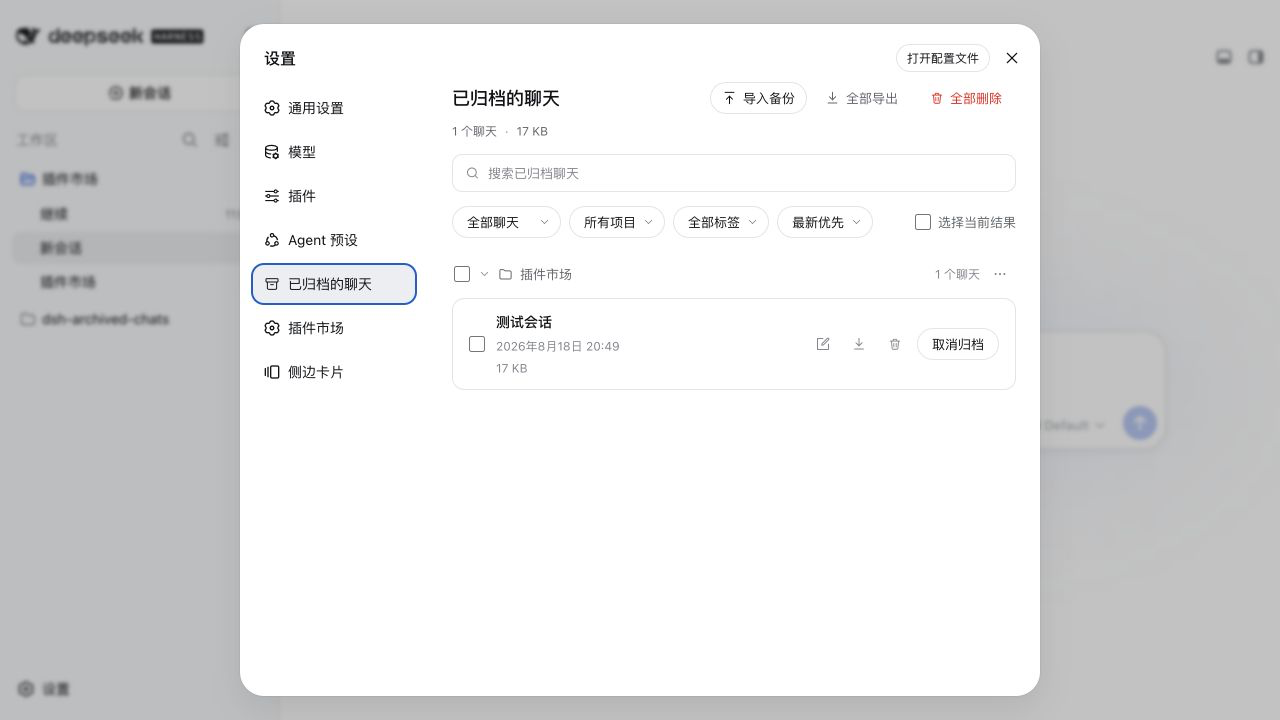
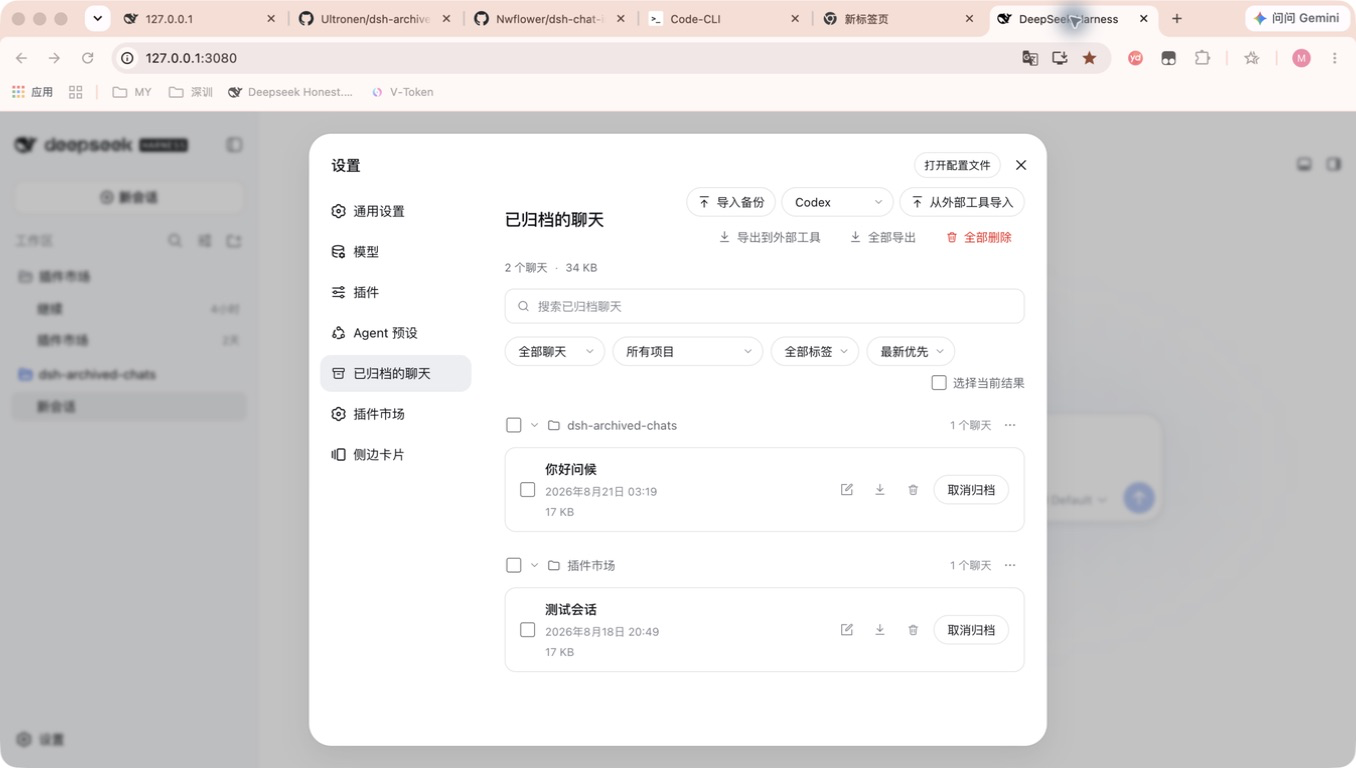
release: prepare dsh-archived-chats 0.9.0

diff --git a/lib/index.js b/lib/index.js
@@ -95,7 +95,7 @@ const PERSISTENCE_KEYS = ['sessionPersistence'];
 const ROUTE_PREFIX = '/plugins/dsh-archived-chats';
 /** Custom header required on POSTs: cheap CSRF hardening for a loopback UI. */
 const GUARD_HEADER = 'x-dsh-archived-chats';
-const PLUGIN_VERSION = '0.8.0';
+const PLUGIN_VERSION = '0.9.0';
 
 //#region wire helpers
 /** Read and JSON-parse a request body (empty body → {}). */

diff --git a/README.en.md b/README.en.md
@@ -24,11 +24,11 @@ dsh plugin --profile web update dsh-archived-chats
 
 ## Compatibility
 
-Version 0.8.1 uses DeepSeek Harness `0.1.0-rc.7` as its automated compatibility baseline. The plugin registers a top-level `settings.section`, so the rc.7 keyed-slot change for `settings.plugin.item` does not apply to it. A local real-host UI pass was also completed on Harness `0.1.0-rc.8` for the archive list, search, metadata editor, bulk actions, group actions, and import preview. Future Harness releases should still be checked with the smoke suite and a real-host UI pass before publishing a plugin update, because client slot and design-token contracts may evolve.
+Version 0.9.0 uses DeepSeek Harness `0.1.0-rc.7` as its automated compatibility baseline. The plugin registers a top-level `settings.section`, so the rc.7 keyed-slot change for `settings.plugin.item` does not apply to it. A local real-host UI pass was also completed on Harness `0.1.0-rc.8` for the archive list, search, metadata editor, bulk and group actions, backup import preview, and the Codex / Claude Code interoperability controls and conversion report. Future Harness releases should still be checked with the smoke suite and a real-host UI pass before publishing a plugin update, because client slot and design-token contracts may evolve.
 
 ## Preview
 
-These screenshots represent the 0.8.1 documentation release's unchanged 0.8.x UI and were captured in a local DeepSeek Harness web profile.
+The overview and external-import preview were captured from 0.9.0 in a local DeepSeek Harness `0.1.0-rc.8` web profile. The remaining screenshots retain unchanged 0.8.x workflows.
 
 ![Archived Chats overview](assets/screenshots/1-archived-chats.png)
 ![Search and filters](assets/screenshots/2-search.png)
@@ -37,14 +37,17 @@ These screenshots represent the 0.8.1 documentation release's unchanged 0.8.x UI
 ![Metadata editor](assets/screenshots/5-metadata-editor.png)
 ![Bulk actions](assets/screenshots/6-bulk-actions.png)
 ![Import preview](assets/screenshots/7-import-preview.png)
+![Codex external-import conversion report](assets/screenshots/8-interop-import-preview.png)
 
 ## Usage
 
 1. Archive a conversation from the normal DSH session menu. Archiving removes it from the sidebar but keeps its session data in the workspace store.
 2. Open **Settings → Archived Chats**. The page groups archived conversations by workspace and remembers collapsed groups in this browser.
 3. Search, filter, sort, or select conversations. Open a row's metadata editor to add tags and notes, or use the group menu for workspace-level actions.
-4. Use **Export backup** for one conversation, the current selection, or all archived chats. To restore a backup, choose **Import backup**, review the preview, keep the non-conflicting sessions selected, and confirm.
-5. Choose **Unarchive** to return a conversation to the sidebar. Choose **Delete** only when you want permanent removal; the confirmation dialog identifies the affected scope.
+4. To migrate from Codex or Claude Code, choose the external source, click **Import from external tool**, and select a JSONL file. Review the conversion report, information losses, warnings, and ID conflicts before confirming only the non-conflicting sessions you want.
+5. To hand archived chats to Codex or Claude Code, select one or more sessions (or use all sessions when nothing is selected), click **Export to external tool**, then review the target and native-resume limitation before downloading JSONL.
+6. Use **Export backup** for one conversation, the current selection, or all archived chats. To restore a backup, choose **Import backup**, review the preview, keep the non-conflicting sessions selected, and confirm.
+7. Choose **Unarchive** to return a conversation to the sidebar. Choose **Delete** only when you want permanent removal; the confirmation dialog identifies the affected scope.
 
 ## Features
 
@@ -54,6 +57,7 @@ These screenshots represent the 0.8.1 documentation release's unchanged 0.8.x UI
 - **Storage insights**: a summary strip reports the archived count, total measured size, and how many sessions could not be measured; each row shows its own size. Measurement never follows symbolic links and skips sessions whose directories are unreadable.
 - **JSON + Markdown backups**: export one row, the current selection, or every archived chat as a ZIP. Each package has a versioned manifest, a lossless machine-readable session record, and a human-readable transcript for every included session.
 - **Preview-first import and restore**: choose a ZIP backup, inspect every session before writing, preselect only non-conflicting IDs, and restore selected sessions as archived chats. Existing IDs are skipped and never overwritten.
+- **Codex / Claude Code interoperability**: inspect external JSONL read-only and show session, information-loss, conflict, warning, and fidelity counts before any write. Selected DSH archives can also be exported as readable target-specific JSONL handoffs.
 - **Flexible multi-select**: select individual chats, every visible result, or an entire project. The selection bar can export, unarchive, or permanently delete the chosen chats in one action, while selections hidden by another filter remain intact.
 - **Unarchive** a single chat or a whole project group from the group's `⋯` menu — restored chats reappear in the sidebar immediately.
 - **Delete** one chat, a project group, or everything (**Delete All**), each behind a confirmation dialog. Deletion is thorough: the session log is removed from disk, the session is detached from its workspace record, and the registry's in-memory header index is purged, so the sidebar drops the rows live.
@@ -82,6 +86,14 @@ Attachment references remain in JSON, but **attachment bytes and descendant sess
 
 Import accepts only this plugin's version-one export ZIPs. The browser first uploads the package for bounded validation and shows a preview containing titles, workspaces, tags, notes, storage facts, ID conflicts, unresolved-workspace warnings, and attachment-reference warnings; raw events and Markdown are never rendered in the preview. Existing session IDs are disabled and skipped, and unresolved workspaces are restored ungrouped. A confirmation token expires after 10 minutes and can be used once. Tags and notes are restored through the same local metadata limits as manual edits. No attachment bytes are restored. Hosts without the supported Harness writer capability return `restore-unsupported` without writing anything.
 
+## Codex and Claude Code interoperability
+
+Version 0.9.0 can convert local Codex or Claude Code JSONL into archived DSH sessions and export DSH archives to the selected target's JSONL. External import accepts one JSONL file. The upload request is capped at 8 MiB, with additional limits on line count, individual line size, and structural complexity. Inspection reads the source without rewriting, moving, or deleting it, and raw messages and local paths are not written to plugin logs.
+
+Every import is preview-first. “High-fidelity conversion” means no known information loss was found; “Readable migration” means the conversation remains readable but some event, field, or content-block detail could not be mapped completely. Malformed JSON, unknown events, attachment references, and duplicate/existing sessions are surfaced as losses, warnings, or conflicts. Conflicts start deselected and are never overwritten. Confirmation reuses the 10-minute, single-use token and transactional rollback path.
+
+Attachments keep only safe relative references; **binary files are not copied or restored**. Exported external JSONL is a conversation projection for reading, migration, or handoff and does not promise native Codex or Claude Code `resume`. Export does not mutate DSH sessions or access the target tool's source directories, credentials, MCP keys, or local configuration.
+
 ## FAQ
 
 <details>
@@ -106,6 +118,13 @@ Attachment references are preserved in `session.json`, but attachment bytes and 
 </details>
 
 <details>
+<summary><b>Can Codex or Claude Code resume the exported JSONL as the original session?</b></summary>
+
+Not guaranteed. It is a readable migration and handoff format that preserves mappable messages and tool traces, not a native target-tool session archive. The download dialog states that native resume is unsupported.
+
+</details>
+
+<details>
 <summary><b>Does deleting a live session require a restart?</b></summary>
 
 On hosts that expose the required lifecycle hooks, deletion tears down the live session and removes its files in the same request. Older or incompatible hosts use the safe fallback queue and finish the physical delete on the next start.
@@ -114,7 +133,7 @@ On hosts that expose the required lifecycle hooks, deletion tears down the live 
 
 ## Implementation overview
 
-The plugin has two halves: the Host service reads and mutates local archive data, while the browser settings page provides search, filtering, backup, and restore actions. Mutations go through guarded local routes; imports are previewed before writing, and live deletion uses the safest lifecycle path available on the host before falling back to next-boot cleanup.
+The plugin has two halves: the Host service reads and mutates local archive data, while the browser settings page provides search, filtering, backup, restore, and cross-tool conversion actions. Codex / Claude Code adapters project into a versioned `dsh-interop` v1 domain model with SHA-256 integrity validation. Mutations go through guarded local routes; imports are previewed before writing, and live deletion uses the safest lifecycle path available on the host before falling back to next-boot cleanup.
 
 User-facing storage, backup limits, deletion outcomes, and compatibility notes stay in this README. Maintainer details such as route contracts, data flow, restore transactions, live-deletion lifecycle, and failure fallbacks are documented in [ARCHITECTURE.md](docs/ARCHITECTURE.en.md).
 
@@ -124,9 +143,16 @@ User-facing storage, backup limits, deletion outcomes, and compatibility notes s
 npm test
 ```
 
-The suite (`test/*.test.mjs`) covers export records and real ZIP decoding, bounded import validation, restore transactions, the metadata store, the statistics service, and host-and-browser smoke tests. It uses an isolated temporary DSH home plus mocked host and browser runtimes; it never reads or changes real sessions.
+The suite (`test/*.test.mjs`) covers export records and real ZIP decoding, bounded import validation, restore transactions, the metadata store, the statistics service, `dsh-interop` schema and SHA-256 checks, Codex / Claude Code fixtures and round trips, and host-and-browser smoke tests. It uses an isolated temporary DSH home plus mocked host and browser runtimes; it never reads or changes real sessions.
 
 ## Version history
+
+### 0.9.0
+
+- Added preview-first Codex and Claude Code JSONL import, reusing conflict-safe single-use tokens and transactional restore.
+- Added readable migration and handoff export for Codex / Claude Code, with explicit native-resume and attachment-binary limitations.
+- Added the `dsh-interop` v1 exchange model, SHA-256 integrity checks, conversion loss/warning/conflict reports, and matching fixtures, route tests, and browser tests.
+- Verified the new controls, conversion preview, and single-line page title in a real DeepSeek Harness `0.1.0-rc.8` host.
 
 ### 0.8.1
 

diff --git a/docs/ARCHITECTURE.en.md b/docs/ARCHITECTURE.en.md
@@ -10,7 +10,7 @@ The plugin has a Host service half and a browser client half:
 
 - The Host service in lib/index.js runs inside the DSH Web host, reads the workspace registry and session persistence, and exposes local HTTP routes.
 - The browser client in lib/client.js registers the Archived Chats settings.section and renders state and actions.
-- Pure domain logic lives in lib/export.js, lib/import.js, lib/restore.js, lib/metadata.js, and lib/stats.js so it can be tested independently.
+- Pure domain logic lives in lib/export.js, lib/import.js, lib/restore.js, lib/metadata.js, lib/stats.js, and lib/interop/{format,report,codex,claude}.js so it can be tested independently.
 
 The browser never reads session files directly. All reads and writes go through Host routes.
 
@@ -24,6 +24,8 @@ GET  /plugins/dsh-archived-chats/stats
 POST /plugins/dsh-archived-chats/export
 POST /plugins/dsh-archived-chats/import/inspect
 POST /plugins/dsh-archived-chats/import/restore
+POST /plugins/dsh-archived-chats/interop/inspect
+POST /plugins/dsh-archived-chats/interop/export
 POST /plugins/dsh-archived-chats/metadata
 POST /plugins/dsh-archived-chats/unarchive
 POST /plugins/dsh-archived-chats/unarchive-all
@@ -31,7 +33,7 @@ POST /plugins/dsh-archived-chats/delete
 POST /plugins/dsh-archived-chats/delete-all
 ~~~
 
-Every mutating route requires the x-dsh-archived-chats: 1 header. Export is read-only. Unarchive writes through the workspace registry state path and broadcasts archived-sessions-changed to connected clients.
+Every mutating route, plus browser-initiated external-format import and export, requires the x-dsh-archived-chats: 1 header. Export is read-only. Unarchive writes through the workspace registry state path and broadcasts archived-sessions-changed to connected clients.
 
 ## State and local data
 
@@ -72,6 +74,25 @@ import/inspect accepts only version-one ZIPs produced by this plugin. Host valid
 
 The confirmation token expires quickly and can be used once. Hosts without the supported writer capability return restore-unsupported without writing.
 
+## External-tool interoperability flow
+
+Four pure modules form the interoperability boundary: format.js defines and validates the exchange model, report.js aggregates losses, warnings, and conflicts, and codex.js plus claude.js read and project their respective JSONL formats. The canonical model fixes format: "dsh-interop" and formatVersion: 1, with source, sourceVersion, sessions, and a SHA-256 digest. Each session projection carries an ID, title, workspace, messages, attachment references, losses, and source. Harness events remain authoritative; the exchange model and target JSONL are adapter projections only.
+
+External import flow:
+
+1. The browser uploads a source and one JSONL file to interop/inspect as multipart with the guard header.
+2. Host reads within an 8 MiB request cap; adapters further bound line count, line bytes, nesting depth, and collection size. Unknown or malformed records enter the report, never log bodies.
+3. Host returns only sanitized session summaries, a report, and a short-lived token. The browser shows fidelity, losses, warnings, and existing-ID conflicts.
+4. Confirmation calls the existing import/restore route. Interop sessions are converted to valid Harness restore records and then use the same conflict recheck, feature detection, transactional commit, and rollback path.
+
+External export flow:
+
+1. The browser chooses a target and archived IDs, then requests the guarded interop/export download.
+2. Host rechecks that every ID is still a visible archived session, reads each authoritative persistence record, and projects it to Codex or Claude Code JSONL.
+3. The browser downloads the response through a Blob. The output is explicitly a readable migration or handoff transcript; native target-tool resume is not promised, and attachment bytes are absent.
+
+Inspection and export do not mutate external source files, target-tool directories, or DSH archive records. Adapters do not read credentials, MCP keys, or local tool configuration, and Host logs must not contain raw messages or local paths.
+
 ## Deletion lifecycle
 
 A cold delete confirms the physical location, removes the session log, workspace record, and registry indexes, then cleans metadata and stats caches.
@@ -105,6 +126,7 @@ client.js registers an order-30 settings.section and uses the DSH rc.7 overlay, 
 - Tag and note editor.
 - Selected-item export, unarchive, and delete.
 - Import preview, disabled conflicts, and restore results.
+- Codex / Claude Code source and target selectors, a JSONL file control, conversion report, and external-download limitation notice.
 - Responsive settings-page markers and sidebar refresh injection.
 
 The browser never mutates files directly. After an operation, the Host response becomes the new list baseline.
@@ -113,6 +135,9 @@ The browser never mutates files directly. After an operation, the Host response 
 
 - All state-changing routes require POST and the guard header.
 - Import limits ZIP size, entries, paths, versions, and JSON structure, rejecting traversal, duplicates, and prototype-pollution keys.
+- External JSONL import bounds total bytes, lines, per-line size, nesting depth, and collection size. Unknown or malformed records are reported while inspection stays read-only.
+- Interop attachment paths must be safe and relative; only references remain. Attachment bytes, credentials, keys, and external configuration are never copied, and raw messages are not logged.
+- External import repeats the ID-conflict check and never overwrites. External export reads only currently visible archived IDs and mutates neither source sessions nor target-tool state.
 - Delete reports success only when the physical location is confirmed; otherwise the session and authoritative metadata remain.
 - Metadata or stats outages do not disable listing, unarchive, or delete.
 - Unknown host capabilities must degrade or return a clear error; they must not be inferred.
@@ -128,6 +153,9 @@ Coverage includes:
 - restore.js transactional commit, rollback, and unsupported capabilities.
 - metadata.js versioning, concurrency, and atomic writes.
 - stats.js symlink handling, caching, and concurrency limits.
+- interop/format.js version, SHA-256, bounds, and prototype-pollution rejection.
+- Codex / Claude Code minimal, multi-turn, tool-call, malformed-line, attachment-reference, target-projection, and round-trip fixtures.
+- Interop route guard, request cap, source/target rejection, read-only inspection, and transactional-restore reuse.
 - Host routes and browser settings smoke/responsive behavior.
 
 Run:
